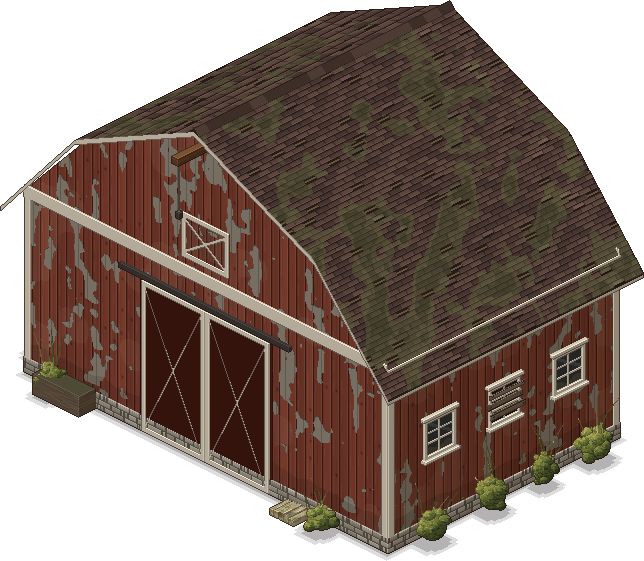
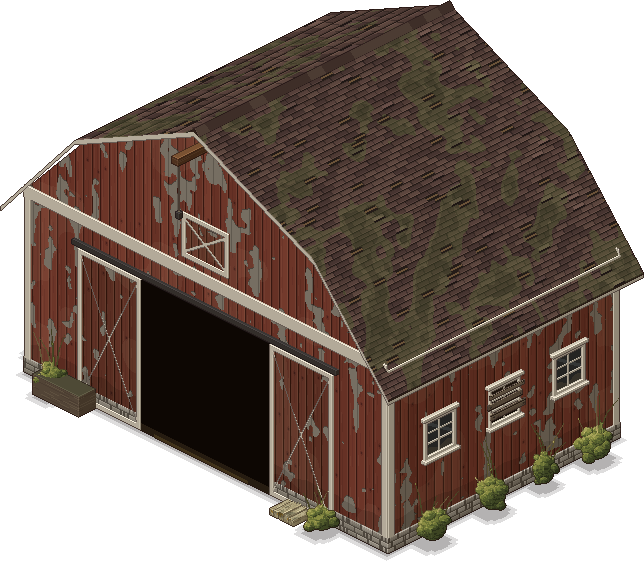
feat(tabuleiro): portão do celeiro abre e fecha; clicar no prédio entra; chegar de frente
- Celeiro: estado 0 com o portão da frente aberto (as folhas corridas no trilho
  e o vão escuro), 1 fechado; o clique duplo troca.
- Um clique no desenho de um prédio ao ar livre (a porta inclusive) leva a peça
  até a Entrada encostada nele; o duplo continua escolhendo o prédio.
- Quem chega de outra cena (viagem, passagem, grupo levado) fica de frente para
  a tela (direção 3); pela porta do fundo chegava olhando a parede.

Changed region(s): [[0.0932, 0.4242, 0.528, 0.9091]]

diff --git a/client/src/room/RoomView.ts b/client/src/room/RoomView.ts
@@ -1383,7 +1383,16 @@ export class RoomView {
           else this.select(null);
           this.mark(target.x, target.y);
           this.events.walk(target.x, target.y);
-        } else this.select({ kind: 'floor', id: it.id });
+        } else {
+          // o prédio ao ar livre (o celeiro, o casarão): um clique no desenho dele, na porta inclusive, leva a peça
+          // até a entrada encostada nele, e ela entra; o clique duplo continua escolhendo o prédio
+          const entrada = !dbl && def.width * def.depth >= 20 ? this.entradaDoPredio(it) : null;
+          if (entrada) {
+            this.select(null);
+            this.mark(entrada.x, entrada.y);
+            this.events.walk(entrada.x, entrada.y);
+          } else this.select({ kind: 'floor', id: it.id });
+        }
         return;
       }
     }
@@ -1392,6 +1401,17 @@ export class RoomView {
       this.mark(tile.x, tile.y);
       this.events.walk(tile.x, tile.y);
     }
+  }
+
+  /** A passagem (a Entrada na frente da porta) encostada no prédio, como a planta do servidor acha (`marcos`). */
+  private entradaDoPredio(it: FloorItem): { x: number; y: number } | null {
+    const def = getFurni(it.defId);
+    if (!def || def.walkable || !this.map) return null;
+    const fp = footprint(def, it.rot);
+    const p = this.map
+      .allItems()
+      .find((q) => q.link !== undefined && getFurni(q.defId)?.portal && q.x >= it.x - 1 && q.x <= it.x + fp.sx && q.y >= it.y - 1 && q.y <= it.y + fp.sy);
+    return p ? { x: p.x, y: p.y } : null;
   }
 
   /** Marca no chão onde a peça ativa vai parar. */

diff --git a/server/src/roomInstance.ts b/server/src/roomInstance.ts
@@ -265,7 +265,9 @@ export class RoomInstance {
     const valid = !back && this.map.floorHeight(t.x, t.y) !== null && fromRoomId === null;
     let sx = back ? back.x : valid ? t.x : d.x;
     let sy = back ? back.y : valid ? t.y : d.y;
-    let sdir = back ? (back.rot + 4) % 8 : valid ? t.dir : d.dir;
+    // chegando de outra cena (a viagem, a passagem, o grupo levado pelo mestre): de frente para quem olha a tela (3 = SE,
+    // o rosto para a câmera); antes virava de costas para a passagem, e pela porta do fundo chegava olhando a parede
+    let sdir = fromRoomId !== null ? 3 : valid ? t.dir : d.dir;
     // descendo pela escada: a peça chega no pé dela, virada para a sala (em cima dos degraus, no chão, ela sumia atrás da escada);
     // subindo, chega na frente do vão da escada do andar de cima
     const pe = back?.defId === 'stairs_up' || back?.defId === 'escada_desce' || back?.defId === 'escada_vertical' ? this.stairFoot(back) : null;

diff --git a/scripts/3d/estilo/pecas_px/fazenda_fora.py b/scripts/3d/estilo/pecas_px/fazenda_fora.py
@@ -1882,7 +1882,7 @@ def _x_porta(face, plano, a0, a1, z0, z1, cor='#d2cab8', larg=0.09):
         c.face_plana(pts, n, m, M, o, dois_lados=True)
 
 
-def _celeiro():
+def _celeiro(aberto=True):
     c = CZ.c
     W, D = 12 * CASA, 8 * CASA
     X0, X1, Y0, Y1 = 0.25, W - 0.25, 0.3, D - 0.3
@@ -1910,16 +1910,24 @@ def _celeiro():
     # a faixa branca na base do oitão (frente e fundo)
     for (yy, s) in ((Y1, 1), (Y0, -1)):
         caixa((X0, X1, min(yy, yy + s * 0.04), max(yy, yy + s * 0.04), ZE - 0.02, ZE + 0.1), liso('#d2cab8'))
-    # o portão grande (duas folhas de correr, o quadro e o X brancos) na frente e no fundo
+    # o portão grande (duas folhas de correr, o quadro e o X brancos) na frente e no fundo; o da frente abre (14/10):
+    # as folhas correm no trilho para os lados e fica o vão escuro do celeiro, com o chão de terra e palha na boca
     for (face, yy, w, h) in (('+y', Y1, 3.0, 2.9), ('-y', Y0, 2.2, 2.5)):
         sg = 1 if face == '+y' else -1
         a0, a1 = XM - w / 2, XM + w / 2
         caixa((a0 - 0.05, a1 + 0.05, min(yy, yy + sg * 0.02), max(yy, yy + sg * 0.02), 0, h + 0.05), liso('#3a1610'))
-        for (l0, l1) in ((a0, XM), (XM, a1)):
+        abre = aberto and face == '+y'
+        if abre:
+            caixa(_bx(face, yy, a0, a1, 0.0, 0.035, 0.0, h), liso('#0c0806'))
+            caixa(_bx(face, yy, a0, a1, 0.0, 0.036, 0.0, 0.16), liso('#2a2016'))
+            caixa(_bx(face, yy, a0 + 0.3, a1 - 0.5, 0.0, 0.037, 0.0, 0.07), liso('#4a3c22'))
+        folhas = ((a0 - w / 2, a0), (a1, a1 + w / 2)) if abre else ((a0, XM), (XM, a1))
+        for (l0, l1) in folhas:
             caixa(_bx(face, yy, l0 + 0.01, l1 - 0.01, 0.0, 0.02, 0.02, h), mat_tabua_v(['#6e3a2e', '#68362a'], 0.18, '#34160e', seed=5, descasca=0.7))
             _x_porta(face, yy, l0 + 0.01, l1 - 0.01, 0.02, h)
-        # o trilho da porta de correr
-        caixa(_bx(face, yy, a0 - 0.5, a1 + 0.5, 0.0, 0.08, h + 0.05, h + 0.15), liso('#3a3634'))
+        # o trilho da porta de correr (aberto, comprido o bastante para as folhas)
+        folga = w / 2 + 0.1 if abre else 0.5
+        caixa(_bx(face, yy, a0 - folga, a1 + folga, 0.0, 0.08, h + 0.05, h + 0.15), liso('#3a3634'))
     # a porta do palheiro em cima, com o X, e a viga da roldana saindo do alto do oitão
     zp0, zp1 = ZE + 0.25, ZE + 1.1
     caixa(_bx('+y', Y1, XM - 0.55, XM + 0.55, 0.0, 0.02, zp0, zp1), mat_tabua_v(['#6e3a2e', '#68362a'], 0.18, '#34160e', seed=6, descasca=0.7))
@@ -2132,7 +2140,8 @@ ITENS = {
     'carroca': (2, 3, (0.0, 0.0), _carroca, {}),
     'fonte': (3, 3, (0.0, 0.0), _fonte, {}),
     'casarao': (14, 9, (0.0, 0.0), _casarao, {}),
-    'celeiro': (12, 8, (0.0, 0.0), _celeiro, {}),
+    # estado 0 o portão da frente aberto (o padrão: dá para entrar), 1 fechado
+    'celeiro': (12, 8, (0.0, 0.0), _celeiro, {'1': lambda: _celeiro(False)}),
     'galpao': (8, 6, (0.0, 0.0), _galpao, {}),
     'orfanato_predio': (16, 46, (0.0, 0.0), _orfanato, {}),
     'porteira': (3, 1, (0.0, 0.0), lambda: _porteira(False), {'1': lambda: _porteira(True)}),
